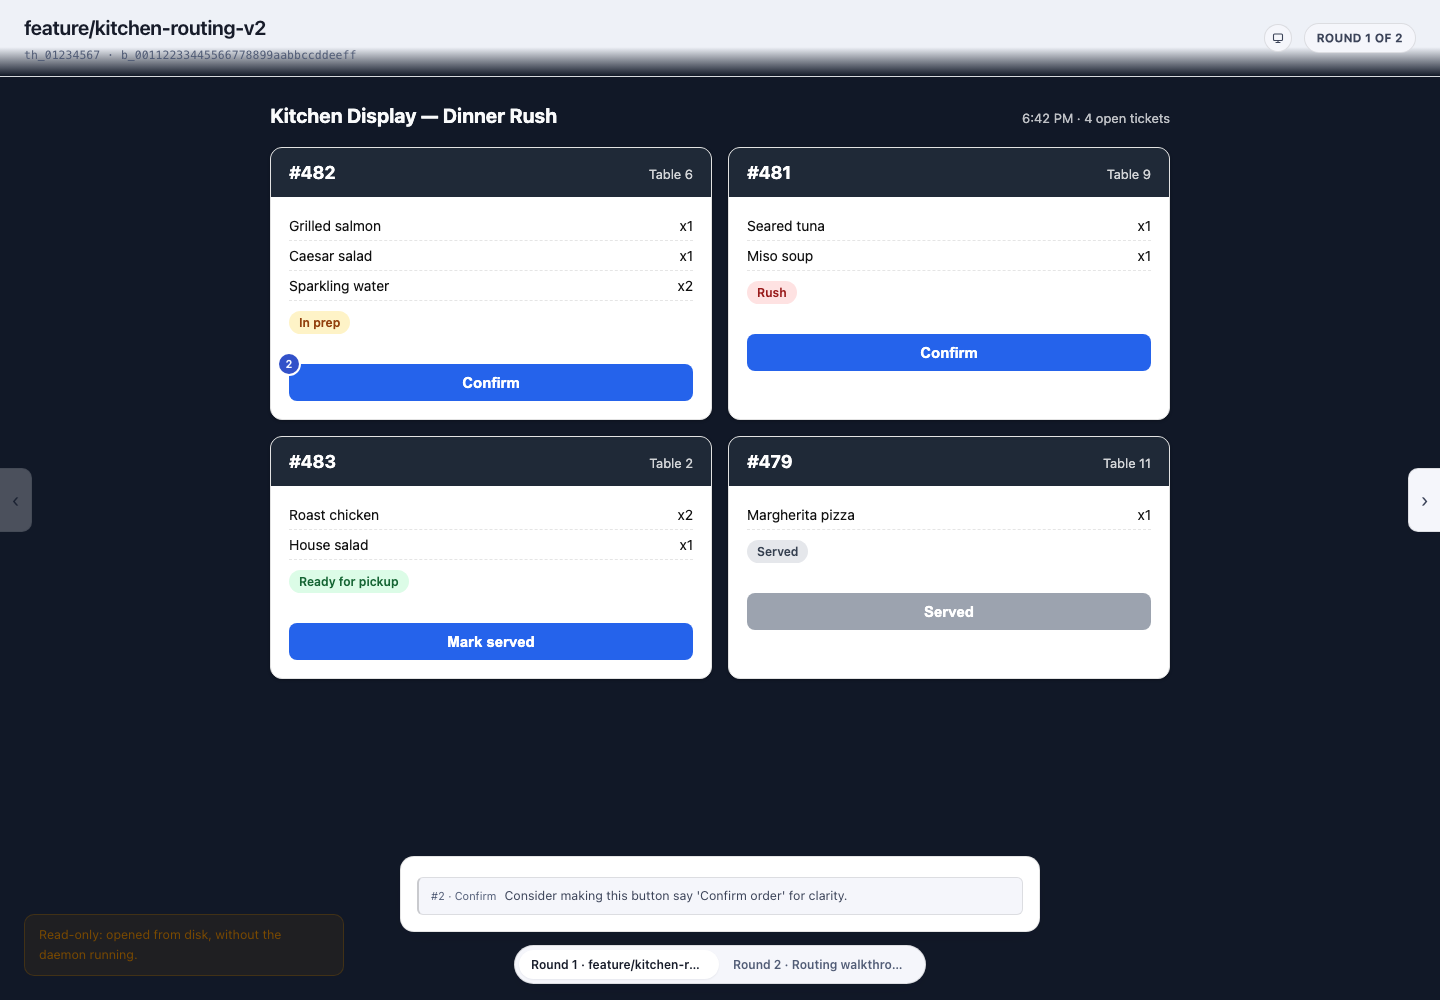
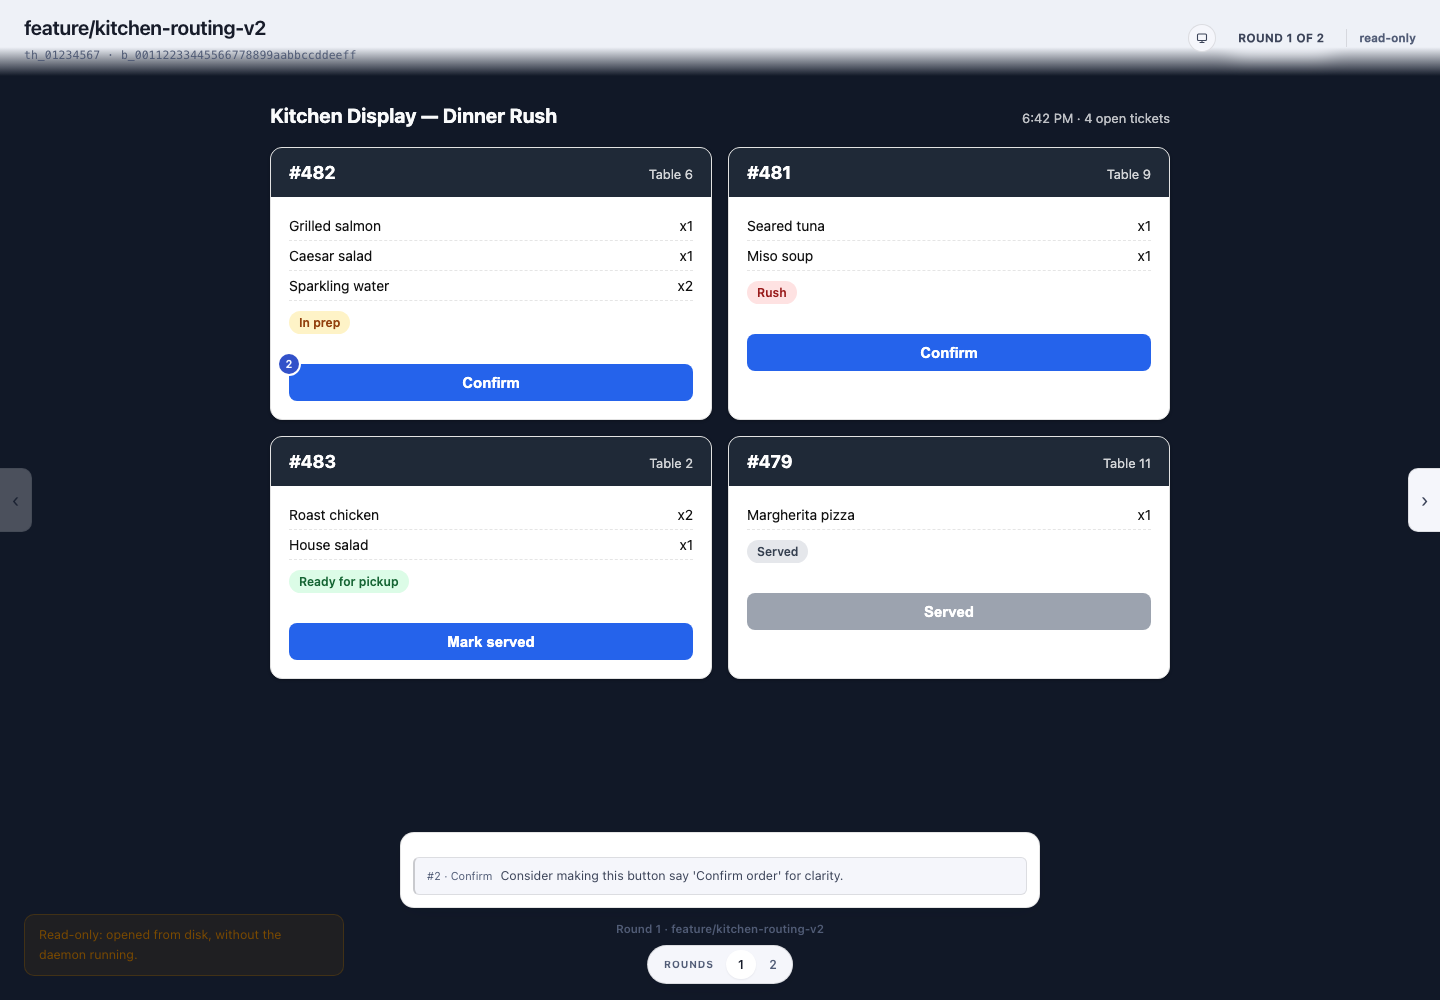
Let a read-only page board keep its theme control
The .mode-toggle hide rule for body.page-uncommentable was catching
#theme-toggle, exactly as the body.readonly one had; carve both out.

Records ADR 59-61 for the header work that follows.

Changed region(s): [[0.2812, 0.806, 0.7188, 0.992], [0.875, 0.031, 1.0, 0.062]]

diff --git a/examples/sample-board.html b/examples/sample-board.html
@@ -463,7 +463,10 @@ body.readonly .mode-toggle, body.page-uncommentable .mode-toggle { display: none
    symmetric padding around a single glyph instead of text-plus-icon spacing. */
 .mode-toggle-icon { padding: 7px; }
 /* Unlike .mode-toggle, this control stays live in a read-only archive -- an
-   archive reader is exactly who needs to switch theme. An id
+   archive reader is exactly who needs to switch theme. Same for an
+   uncommentable page board: nothing there is answerable, but the theme of a
+   full-viewport artifact is exactly what a reader still wants to change, so
+   both of .mode-toggle's hiding gates above are carved out here. An id
    selector outranks body.readonly .mode-toggle's class selector regardless of
    source order, so that rule's own wording (asserted verbatim by
    test/check-archive.mjs) never has to change to carve this control out of it.
@@ -474,7 +477,7 @@ body.readonly .mode-toggle, body.page-uncommentable .mode-toggle { display: none
    qualifier is what the real button has and
    a markdown-minted heading never can -- see src/ui.mjs's matching
    'button#theme-toggle' lookup and its own comment on the same collision. */
-body.readonly button#theme-toggle { display: inline-flex; }
+body.readonly button#theme-toggle, body.page-uncommentable button#theme-toggle { display: inline-flex; }
 
 .readonly-banner { display: none; background: var(--warning-soft); border: 1px solid var(--warning-border);
   color: var(--warning-ink); font-size: 12.5px; padding: 10px 14px; border-radius: var(--r-md); margin-bottom: var(--space-4); }

diff --git a/ADR.md b/ADR.md
@@ -43,9 +43,9 @@
 | 37 | The renderer templates pin the mermaid CDN fallback and keep the vendored copy | 2026-08-07 | accepted (see *Smaller decisions*) |
 | 38 | `/file/` is deleted; the board is the only way to see a rendered page | 2026-08-07 | accepted; supersedes 10 |
 | 39 | The board pushes its theme into the stage | 2026-08-07 | accepted (see *Smaller decisions*) |
-| 40 | The page board header condenses into a centred pill on reading | 2026-08-07 | accepted; **corrected by 49** |
+| 40 | The page board header condenses into a centred pill on reading | 2026-08-07 | accepted; **corrected by 49**; **narrowed by 59**; **widened by 60** |
 | 41 | A reported stage height is floored at the placeholder, not only capped | 2026-08-07 | accepted (see *Smaller decisions*) |
-| 42 | Rounds are the board's pages, flipped left and right | 2026-08-07 | accepted |
+| 42 | Rounds are the board's pages, flipped left and right | 2026-08-07 | accepted; **narrowed by 61** |
 | 43 | A page board carries no expand control | 2026-08-07 | accepted (see *Smaller decisions*) |
 | 44 | "A page board is never sent" is a browser rule, not a daemon rule | 2026-08-07 | accepted |
 | 45 | A page board may be awaited, and the caller declares it | 2026-08-07 | accepted; narrows 35; completed by 50 |
@@ -56,6 +56,13 @@
 | 50 | A wait that dies is recorded on the round | 2026-08-08 | accepted; completes 45 |
 | 51 | The docked send bar draws no hairline | 2026-08-08 | accepted (see *Smaller decisions*) |
 | 52 | A header that fades draws no border under the fade | 2026-08-08 | accepted (see *Smaller decisions*) |
+| 55 | A stranded round is announced, not opened onto | 2026-08-09 | accepted; narrows 4; widened by 58 |
+| 56 | The launcher may compose a notification body, behind a filter | 2026-08-09 | accepted; narrows 19 |
+| 57 | The banner opens the board it names | 2026-08-09 | accepted; narrows 9 |
+| 58 | One notifier for a round, and it is the daemon's | 2026-08-09 | accepted; widens 55 |
+| 59 | The board clears its own chrome band, the artifact does not | 2026-08-09 | accepted; narrows 40 |
+| 60 | The condense is every board's, not the page board's | 2026-08-09 | accepted; widens 40 |
+| 61 | The header stops naming the round | 2026-08-09 | accepted; narrows 42 |
 
 Entries 32-43 come from the page-board grill and are built, with one part-exception: 37 lives in
 the renderer skills under `~/.claude/skills`, outside this repo, so only its board-side half (the
@@ -198,11 +205,11 @@ in a line rather than argued at length.
 **Context:** entry 10 existed because markdown cannot link to `file://`, and a page board embeds the artifact, so the route is now a second way to look at one thing. **Decision:** `handleServeFile`, `SERVE_CSP`, `SERVE_TYPES`, the `CLAUDE_BOARD_SERVE_ROOTS` allowlist and its install step and record file all go. **Consequences:** every already-archived board's link 404s, and an artifact is capped at one self-contained file, since an opaque origin resolves no relative URL.
 
 ## 40. The page board header condenses into a centred pill on reading — 2026-08-07
-**Status:** accepted; corrected by 49
+**Status:** accepted; corrected by 49; narrowed by 59; widened by 60
 **Context:** the header has to be minimizable, and every treatment that puts a control on it spends a click and a piece of chrome on a state the reader's own scrolling already announces. **Decision:** scroll offset becomes a 0-to-1 progress across 140px (`--stage-p` on `<body>`), insetting a centred band behind a header that stays full-bleed and keeps the comment-mode toggle live. **Consequences:** the frame stays a constant viewport height, so condensing can never reflow a long document mid-read, and the stage agent gains a scroll message, shape-checked like every other on that channel. Why the ramp replaced a boolean flipped at 24px: DESIGN.md.
 
 ## 42. Rounds are the board's pages, flipped left and right — 2026-08-07
-**Status:** accepted
+**Status:** accepted; narrowed by 61
 **Context:** rounds stack vertically down one board, which a round that fills the viewport breaks outright. **Decision:** a thread keeps its single board and rounds become its pages — edge chevrons to flip, and a fixed `.round-pager-dock` of bare numerals dotting any round that still owes an answer. **Consequences:** the history rail is deleted, so the pager itself must keep a sent page read-only, and two rounds are never visible at once, so a question has to carry what it refers to. Why per-artifact boards and full round titles were dropped: DESIGN.md.
 
 ## 44. "A page board is never sent" is a browser rule, not a daemon rule — 2026-08-07
@@ -232,3 +239,30 @@ in a line rather than argued at length.
 ## 50. A wait that dies is recorded on the round — 2026-08-08
 **Status:** accepted; completes 45
 **Context:** entry 45's `awaited` flag was stamped at mint and never unstamped, so a lapsed round still counted toward the index badge, swallowed its own comments, and resumed on a re-post against a deadline already past. **Decision:** the deadline passing clears `awaited` at `readBoard`, the one choke point every reader of a stored board goes through; `awaitDeadline` and `status` are left alone, so a lapsed round stays distinguishable from one never awaited. **Consequences:** every surface keeps its bare `awaited` read and becomes correct for free, and a lapsed round is not re-waitable, which is the price of the single stored fact. Why not a clock in every reader: DESIGN.md.
+
+## 55. A stranded round is announced, not opened onto — 2026-08-09
+**Status:** accepted; narrows 4; widened by 58
+**Context:** everything that raises a signal for an awaited round is code inside the board tab, so a reviewer who closes that tab mid-wait is told nothing for the rest of the wait; the shim's one cover, forcing a tab open when the board reports no client, runs at post time only, steals focus, and fires on the false zero an SSE reconnect produces. **Decision:** the daemon raises a native banner when a round becomes stranded, evaluated at post and again when the last watcher leaves, after a short grace; the shim's forced reopen is deleted and the first board of a thread still opens as it always has. **Consequences:** the reviewer chooses when to come back rather than having a tab appear mid-sentence, at the price of the daemon owning a per-board timer and a disconnect hook it did not before, and of a signal that is silent where notifications are.
+
+## 56. The launcher may compose a notification body, behind a filter — 2026-08-09
+**Status:** accepted; narrows 19
+**Context:** entry 19's launcher takes argv only to select a row of a compiled-in table, deliberately, because it holds the reader's Documents grant and the plist that spawns it is user-writable; a banner that cannot name which project wants you is close to useless once more than one session runs. **Decision:** the launcher gains one format slot, filled only by an argument passing a strict name pattern in C, the same shape `is_safe_cue_name` already applies to a cue; an argument that fails the pattern selects the unnamed sentence instead of being rejected. **Consequences:** "no byte of argv reaches the screen" is given up and replaced by "no byte reaches the screen unfiltered", so the pattern is now load-bearing and belongs with the cue filter in review; a project name outside it degrades silently rather than failing loudly.
+
+## 57. The banner opens the board it names — 2026-08-09
+**Status:** accepted; narrows 9
+**Context:** a banner that cannot be clicked can only say "go look", leaving the reviewer to find a board the banner is forbidden from linking; the posting binary must be the bundle's own executable, so no separate helper can serve the click. **Decision:** the notify mode registers an action category and a delegate and stays alive to serve one click, opening a URL that must match a board URL pattern checked in C; it exits when the board gains a watcher, when the round stops being awaited, or at the wait's deadline, whichever comes first. **Consequences:** a second short-lived process now exists per stranded round rather than per boundary, so it must handle the signals the fire-and-exit mode never installed, and the clone install keeps a banner it cannot click.
+
+## 58. One notifier for a round, and it is the daemon's — 2026-08-09
+**Status:** accepted; widens 55
+**Context:** entry 55 gave the daemon a banner for a round nobody has a tab on, which left two implementations of one idea: the page notifying when its own tab is hidden, the daemon notifying when there is no tab, split on an accident of where the code can run rather than on anything a reviewer would recognise. The browser half also carries a permission grant that is per origin and per Chrome profile, so `localhost`, `127.0.0.1` and `board.localhost` are three separate answers and a denied prompt is unrecoverable in place. **Decision:** `notifyRound` and its permission request are deleted; the daemon raises every round notification, and the board tab reports whether it is Attended so the daemon can tell "you are looking at this" from "a tab exists". The favicon numeral stays, being a mark rather than a notification, and the title names the kind of thing that happened, `Board` beside the existing `Pomodoro`, with the body carrying the detail. **Consequences:** one notification identity, one on/off control and one System Settings row for the whole product, paid for with a new report from page to daemon, with the opened URL having to name the round so a click still lands where the deleted notification landed, and with the title becoming a per-row value rather than the single constant both sides compile in today.
+## 59. The board clears its own chrome band, the artifact does not — 2026-08-09
+**Status:** accepted; narrows 40
+**Context:** entry 40's floating header made every artifact responsible for ~96px of top padding, a number stated only as prose in `skills/claude-board/SKILL.md` against a header whose real height moves with the title's wrap and the viewport's width — so an artifact that padded nothing lost its own opening, silently, and nothing warned anyone. **Decision:** the parent reports its chrome band to the stage over the existing `stageAgentScript` channel and the stage tops its own `body` padding up to it, top and bottom, padding only and never a background. **Consequences:** the ~96px paragraph is deleted rather than corrected, an artifact that already pads keeps its own larger value, and the parent owes a fresh report on resize as well as at first paint.
+
+## 60. The condense is every board's, not the page board's — 2026-08-09
+**Status:** accepted; widens 40
+**Context:** entry 40 gave the page board a condensing header and left the ordinary board a static sticky one, so two board types in the same product read as two designs. **Decision:** both condense into the same centred pill on scroll, keeping the controls in the order the expanded header already has (mark, comment toggle, theme, round badge). **Consequences:** an ordinary board must reserve the header's flow box so condensing can never reflow its column, and the pill's contents become one spec serving both surfaces rather than a page-board special case.
+
+## 61. The header stops naming the round — 2026-08-09
+**Status:** accepted; narrows 42
+**Context:** entry 42 put a fixed dock at the bottom of every board whose caption prints the round's full name at all times, which left the header's `round N of M` badge saying the same thing twice — and saying it on a button whose click already routed through the pager's own `goToRound`, three doors onto one mechanism. **Decision:** the badge goes, at rest and condensed alike; `badgeLabel` is deleted and `roundNumberLabel` becomes the single place a round is named. The state label beside it stays in both states, since the countdown it carries (entry 49) is the one thing on the header no other surface says. **Consequences:** `jumpToOpenRound` keeps its remaining callers (the notification, arrival from the index) and loses only the badge's, and "hide it when condensed" never becomes a rule because nothing is left to hide.
